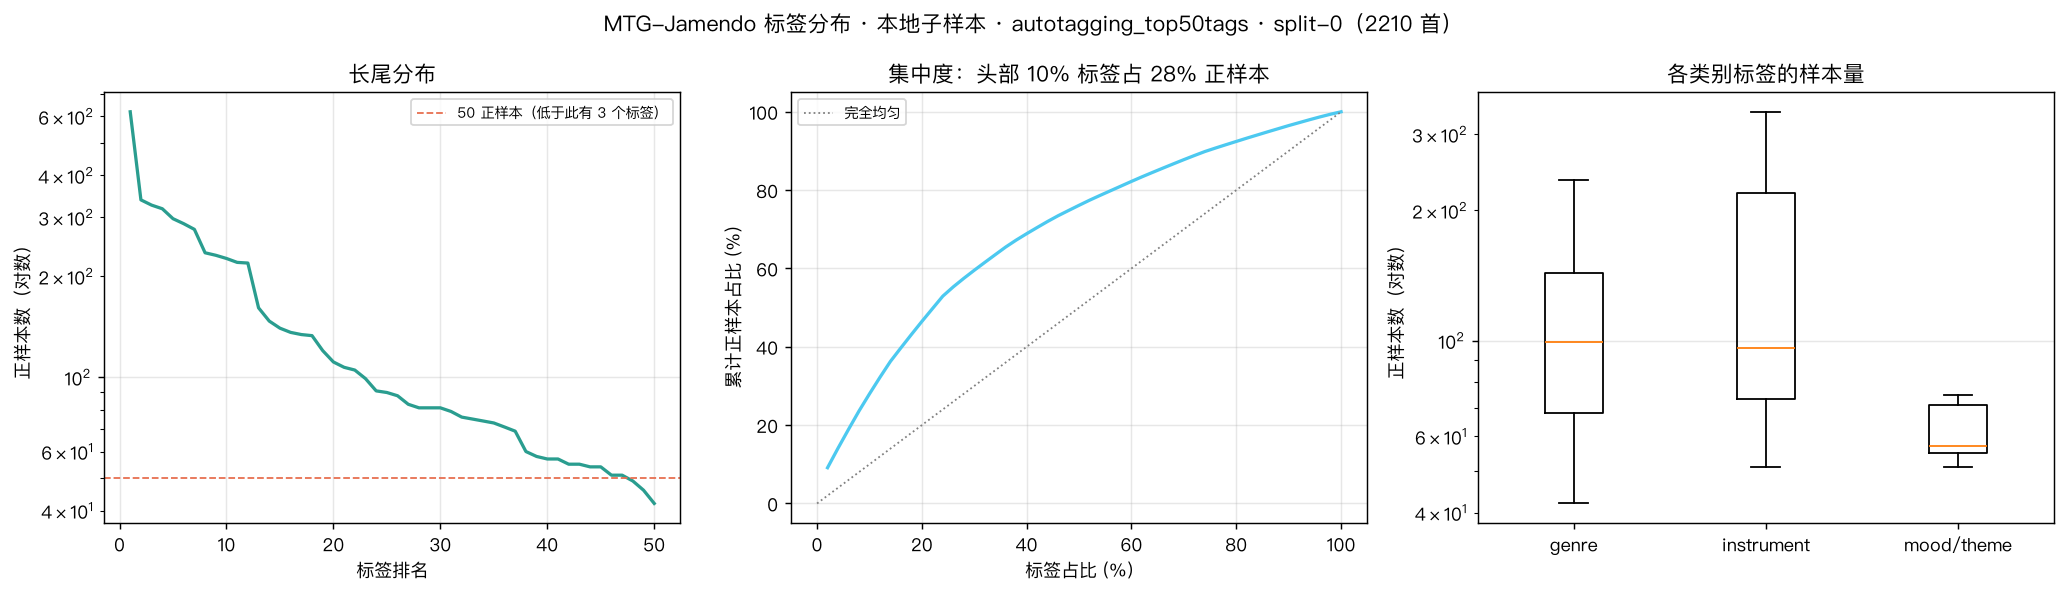
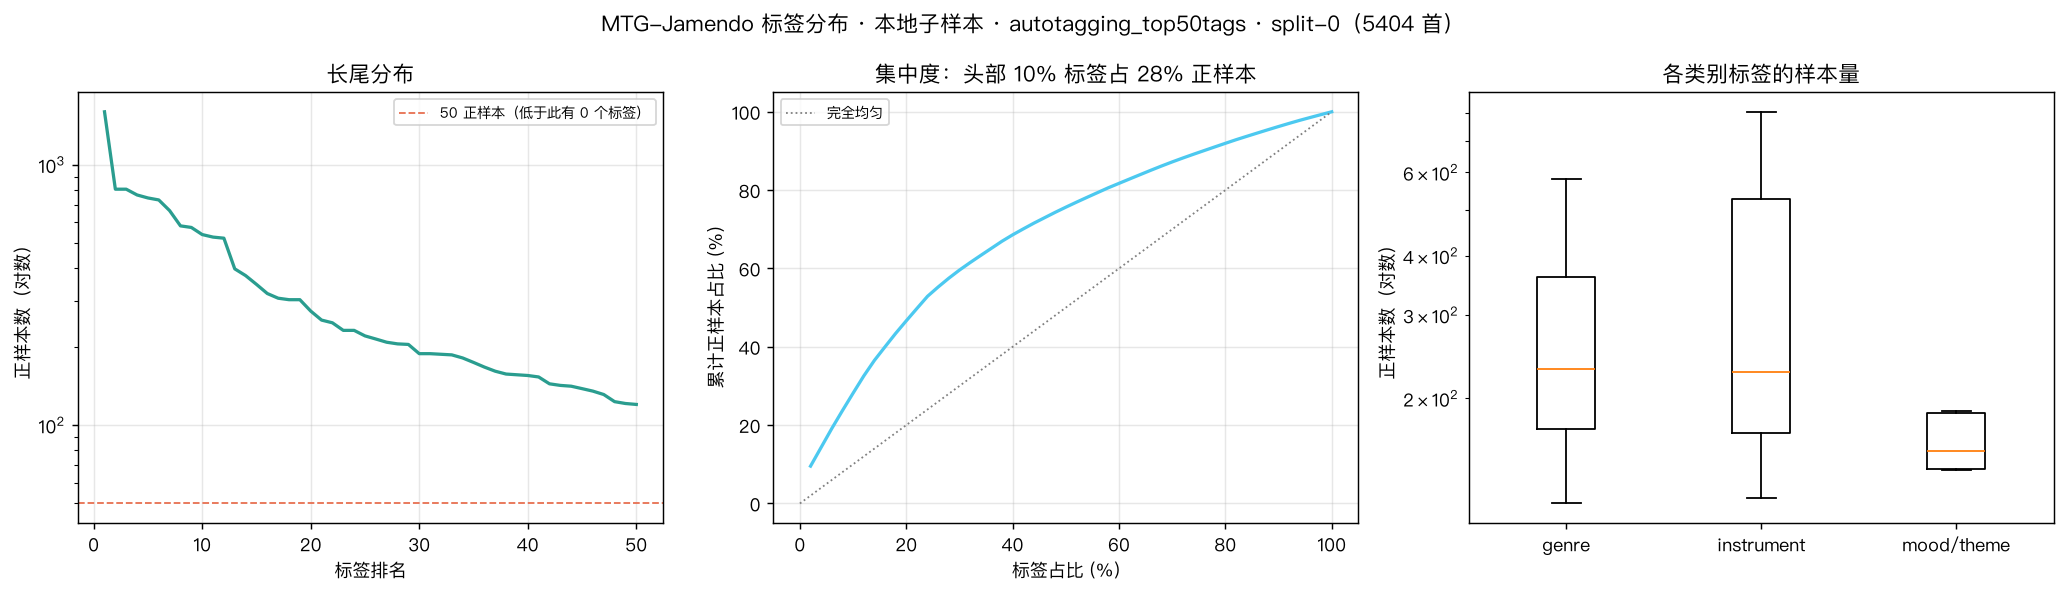
fix(P4): 下载脚本静默丢数据——只验了 tar 能不能读，没验完不完整
块 04（当初 DNS 断掉后续传的那块）只解出 191/556 首，静默丢了 6.8% 的数据，
直到提特征报缺文件才暴露。

根因：截断的 tar 用 tarfile 顺序读到断点就停下、**不抛异常**。脚本数出 191 个
成员、认为校验通过、解压、打印「✅ 块 04：191 个文件」——而我没拿这个数去和
期望的 ~556 对比。

修两处：
1. download_chunk 下载后先比字节数（HEAD 的 Content-Length vs 本地大小），
   不一致就删掉重下。光验「能读」不够，必须验「完整」。
2. chunk_done 加完整性判定。原来只看「目录存在且非空」——截断解压出的残缺
   目录会被当成已完成**永远跳过**，重跑脚本也修不好。现在从元数据读每块应有
   的曲目数（留 2% 容差，元数据与实际发布文件本就有个位数出入）。

重下块 04 后：5,534 首 / 49 GB，10 块全部完整。
top50tags 下 5,404 首（train 3,147 / val 1,144），**50 个标签全部 ≥120 正样本、
0 个低于 50**（4 块时最低 42、3 个低于 50）——阈值优化那一步现在每个标签都有
足够的验证集正样本。

diff --git a/scripts/download_jamendo.py b/scripts/download_jamendo.py
@@ -96,10 +96,36 @@ def chunk_url(mirror: str, dtype: str, idx: int) -> str:
     return f"{MIRRORS[mirror]}/raw_30s/{dtype}/raw_30s_{dtype}-{idx:02d}.tar"
 
 
-def chunk_done(dest: Path, idx: int) -> bool:
-    """已解压的标志：对应的两位数字目录存在且非空。"""
+def remote_size(url: str) -> int | None:
+    """服务器上的文件字节数（HEAD 的 Content-Length）。取不到返回 None。"""
+    r = subprocess.run(
+        ["curl", "-fsIL", "--max-time", "30", url], capture_output=True, text=True, check=False)
+    if r.returncode != 0:
+        return None
+    for line in reversed(r.stdout.splitlines()):      # 跟随重定向后取最后一段响应头
+        if line.lower().startswith("content-length:"):
+            try:
+                return int(line.split(":", 1)[1].strip())
+            except ValueError:
+                return None
+    return None
+
+
+def chunk_done(dest: Path, idx: int, expected: int | None = None) -> bool:
+    """该块是否已经**完整**解压。
+
+    只看"目录存在且非空"是不够的 —— 截断的 tar 会解出一个非空但残缺的目录，
+    重跑脚本时会被当成已完成直接跳过，残缺就永远留在那儿了。
+    传入 ``expected``（元数据里该块应有的曲目数）才能真正判定。
+    """
     d = dest / f"{idx:02d}"
-    return d.is_dir() and any(d.iterdir())
+    if not (d.is_dir() and any(d.iterdir())):
+        return False
+    if expected is None:
+        return True
+    have = sum(1 for _ in d.glob("*.mp3"))
+    # 留 2% 容差：元数据与实际发布的文件本来就有个位数出入
+    return have >= expected * 0.98
 
 
 # curl 的网络类退出码。这些代表"网线断了"而不是"这个文件有问题"，
@@ -148,10 +174,21 @@ def download_chunk(
         print(f"  ❌ 块 {idx:02d} 下载失败（curl {r.returncode}）")
         return False
 
-    mb = tar_path.stat().st_size / 2**20
+    size = tar_path.stat().st_size
+    mb = size / 2**20
     print(f"  ↓ {mb:.0f} MB / {dt:.0f}s = {mb/max(dt,1e-6):.1f} MB/s", flush=True)
 
-    # 解压前先校验：tar 截断/损坏在这里就能发现，避免解出半个目录后才报错
+    # **必须先比字节数。** 血泪教训：断点续传后拿到一个被截断的 tar，
+    # 而 tarfile 顺序读到断点就停下、**不报错**，于是"校验通过"、解出 191/556 个文件，
+    # 脚本高高兴兴打印 ✅ —— 静默丢了 6.8% 的数据，直到训练时才发现缺文件。
+    # 光验"能不能读"是不够的，必须验"完不完整"。
+    expected = remote_size(url)
+    if expected and size != expected:
+        print(f"  ❌ 块 {idx:02d} 不完整：本地 {size:,} B，服务器 {expected:,} B"
+              f"（差 {(expected-size)/2**20:.0f} MB）→ 删掉重下")
+        tar_path.unlink(missing_ok=True)
+        return False
+
     try:
         with tarfile.open(tar_path) as tf:
             n = sum(1 for m in tf.getmembers() if m.isfile())
@@ -167,6 +204,25 @@ def download_chunk(
         tar_path.unlink(missing_ok=True)     # 见模块 docstring：不删峰值翻倍
     print(f"  ✅ 块 {idx:02d}：{n} 个文件")
     return True
+
+
+def expected_per_chunk(root: Path) -> dict[int, int]:
+    """从元数据统计每块应有多少首。用来判定解压是否完整。"""
+    tsv = root / "meta" / "autotagging_real.tsv"
+    if not tsv.exists():
+        return {}
+    counts: dict[int, int] = {}
+    with open(tsv, encoding="utf-8") as f:
+        next(f, "")
+        for line in f:
+            parts = line.split("\t")
+            if len(parts) >= 4:
+                try:
+                    c = int(parts[3].split("/")[0])
+                except ValueError:
+                    continue
+                counts[c] = counts.get(c, 0) + 1
+    return counts
 
 
 def main() -> int:
@@ -194,7 +250,9 @@ def main() -> int:
 
     dest = root / args.type
     dest.mkdir(parents=True, exist_ok=True)
-    todo = [i for i in range(args.chunks) if not chunk_done(dest, i)]
+    expected_counts = expected_per_chunk(root)
+    todo = [i for i in range(args.chunks)
+            if not chunk_done(dest, i, expected_counts.get(i))]
     done = args.chunks - len(todo)
 
     est = len(todo) * CHUNK_GB[args.type]
@@ -225,7 +283,7 @@ def main() -> int:
         print(f"\n{'=' * 60}\n第 {attempt}/{args.retries} 轮重试：{failed}")
         retry, failed = failed, []
         for idx in retry:
-            if chunk_done(dest, idx):
+            if chunk_done(dest, idx, expected_counts.get(idx)):
                 continue
             print(f"\n[重试] 块 {idx:02d}")
             if not download_chunk(args.mirror, args.type, idx, dest, args.keep_tar):

diff --git a/results/p4_tag_distribution.md b/results/p4_tag_distribution.md
@@ -1,83 +1,83 @@
 # MTG-Jamendo 标签分布
 
-- 范围：本地子样本 · autotagging_top50tags · split-0（2210 首）
+- 范围：本地子样本 · autotagging_top50tags · split-0（5404 首）
 - 命令：`python -m scripts.jamendo_stats --subset autotagging_top50tags --min-positives 0`
 
 ## 总览
 
 | 项 | 值 |
 |---|---|
-| 曲目数 | 2,210 |
-| 总时长 | 145 小时 |
+| 曲目数 | 5,404 |
+| 总时长 | 358 小时 |
 | 标签数 | 50 |
-| 每首平均标签数 | 3.07 |
-| 标签矩阵密度 | 6.14%（**其余 93.9% 是 0**）|
-| 最高频标签正样本 | 619 |
-| 中位标签正样本 | 89 |
-| 最低频标签正样本 | 42 |
+| 每首平均标签数 | 3.10 |
+| 标签矩阵密度 | 6.20%（**其余 93.8% 是 0**）|
+| 最高频标签正样本 | 1,596 |
+| 中位标签正样本 | 217 |
+| 最低频标签正样本 | 120 |
 | 头部 10% 标签占正样本比例 | **28%** |
-| 正样本 < 50 的标签数 | **3 / 50** |
+| 正样本 < 50 的标签数 | **0 / 50** |
 
 ## 各类别
 
 | 类别 | 标签数 | 最少 | 中位 | 最多 |
 |---|---|---|---|---|
-| genre | 31 | 42 | 99 | 619 |
-| instrument | 14 | 51 | 96 | 338 |
-| mood/theme | 5 | 51 | 57 | 75 |
+| genre | 31 | 120 | 231 | 1,596 |
+| instrument | 14 | 123 | 227 | 805 |
+| mood/theme | 5 | 141 | 155 | 188 |
 
 ## 各 split
 
 | split | 曲目数 | 时长(h) |
 |---|---|---|
-| train | 1,290 | 86 |
-| validation | 466 | 29 |
-| test | 454 | 31 |
+| train | 3,147 | 214 |
+| validation | 1,144 | 71 |
+| test | 1,113 | 73 |
 
 ## 逐标签阈值调优的可行性（L4）
 
-验证集共 466 首。**正样本 < 10 的标签有 10 / 50 个** —— 在这些标签上搜阈值等于过拟合噪声。
+验证集共 1,144 首。**正样本 < 10 的标签有 0 / 50 个** —— 在这些标签上搜阈值等于过拟合噪声。
 
-最稀薄的 10 个：`genre---world`(3)、`genre---popfolk`(4)、`mood/theme---film`(4)、`mood/theme---energetic`(6)、`genre---reggae`(7)、`genre---house`(8)、`genre---techno`(8)、`mood/theme---relaxing`(8)、`genre---poprock`(9)、`instrument---acousticguitar`(9)
+最稀薄的 10 个：无
 
 ## 最高频 15 个标签
 
 | 标签 | 正样本 | 占比 |
 |---|---|---|
-| `genre---electronic` | 619 | 28.0% |
-| `instrument---piano` | 338 | 15.3% |
-| `genre---soundtrack` | 326 | 14.8% |
-| `genre---pop` | 318 | 14.4% |
-| `genre---ambient` | 297 | 13.4% |
-| `instrument---synthesizer` | 287 | 13.0% |
-| `genre---rock` | 276 | 12.5% |
-| `genre---classical` | 235 | 10.6% |
-| `instrument---drums` | 231 | 10.5% |
-| `genre---easylistening` | 226 | 10.2% |
-| `instrument---guitar` | 220 | 10.0% |
-| `instrument---bass` | 219 | 9.9% |
-| `instrument---electricguitar` | 161 | 7.3% |
-| `genre---chillout` | 147 | 6.7% |
-| `genre---experimental` | 140 | 6.3% |
+| `genre---electronic` | 1,596 | 29.5% |
+| `genre---soundtrack` | 805 | 14.9% |
+| `instrument---piano` | 805 | 14.9% |
+| `genre---pop` | 765 | 14.2% |
+| `genre---ambient` | 745 | 13.8% |
+| `instrument---synthesizer` | 732 | 13.5% |
+| `genre---rock` | 666 | 12.3% |
+| `genre---classical` | 582 | 10.8% |
+| `instrument---drums` | 574 | 10.6% |
+| `genre---easylistening` | 539 | 10.0% |
+| `instrument---bass` | 527 | 9.8% |
+| `instrument---guitar` | 522 | 9.7% |
+| `instrument---electricguitar` | 398 | 7.4% |
+| `genre---chillout` | 375 | 6.9% |
+| `genre---experimental` | 347 | 6.4% |
 
 ## 最低频 15 个标签
 
 | 标签 | 正样本 |
 |---|---|
-| `mood/theme---film` | 71 |
-| `instrument---strings` | 69 |
-| `genre---instrumentalpop` | 60 |
-| `genre---atmospheric` | 58 |
-| `genre---trance` | 57 |
-| `mood/theme---emotional` | 57 |
-| `genre---triphop` | 55 |
-| `mood/theme---relaxing` | 55 |
-| `genre---funk` | 54 |
-| `instrument---drummachine` | 54 |
-| `mood/theme---energetic` | 51 |
-| `instrument---electricpiano` | 51 |
-| `genre---metal` | 49 |
-| `genre---downtempo` | 46 |
-| `genre---reggae` | 42 |
+| `instrument---voice` | 167 |
+| `instrument---strings` | 161 |
+| `genre---funk` | 157 |
+| `genre---atmospheric` | 156 |
+| `mood/theme---relaxing` | 155 |
+| `genre---instrumentalpop` | 153 |
+| `instrument---drummachine` | 144 |
+| `mood/theme---emotional` | 142 |
+| `mood/theme---energetic` | 141 |
+| `genre---trance` | 138 |
+| `genre---downtempo` | 135 |
+| `genre---triphop` | 131 |
+| `instrument---electricpiano` | 123 |
+| `genre---reggae` | 121 |
+| `genre---metal` | 120 |
 
 ![标签分布](p4_tag_distribution.png)
